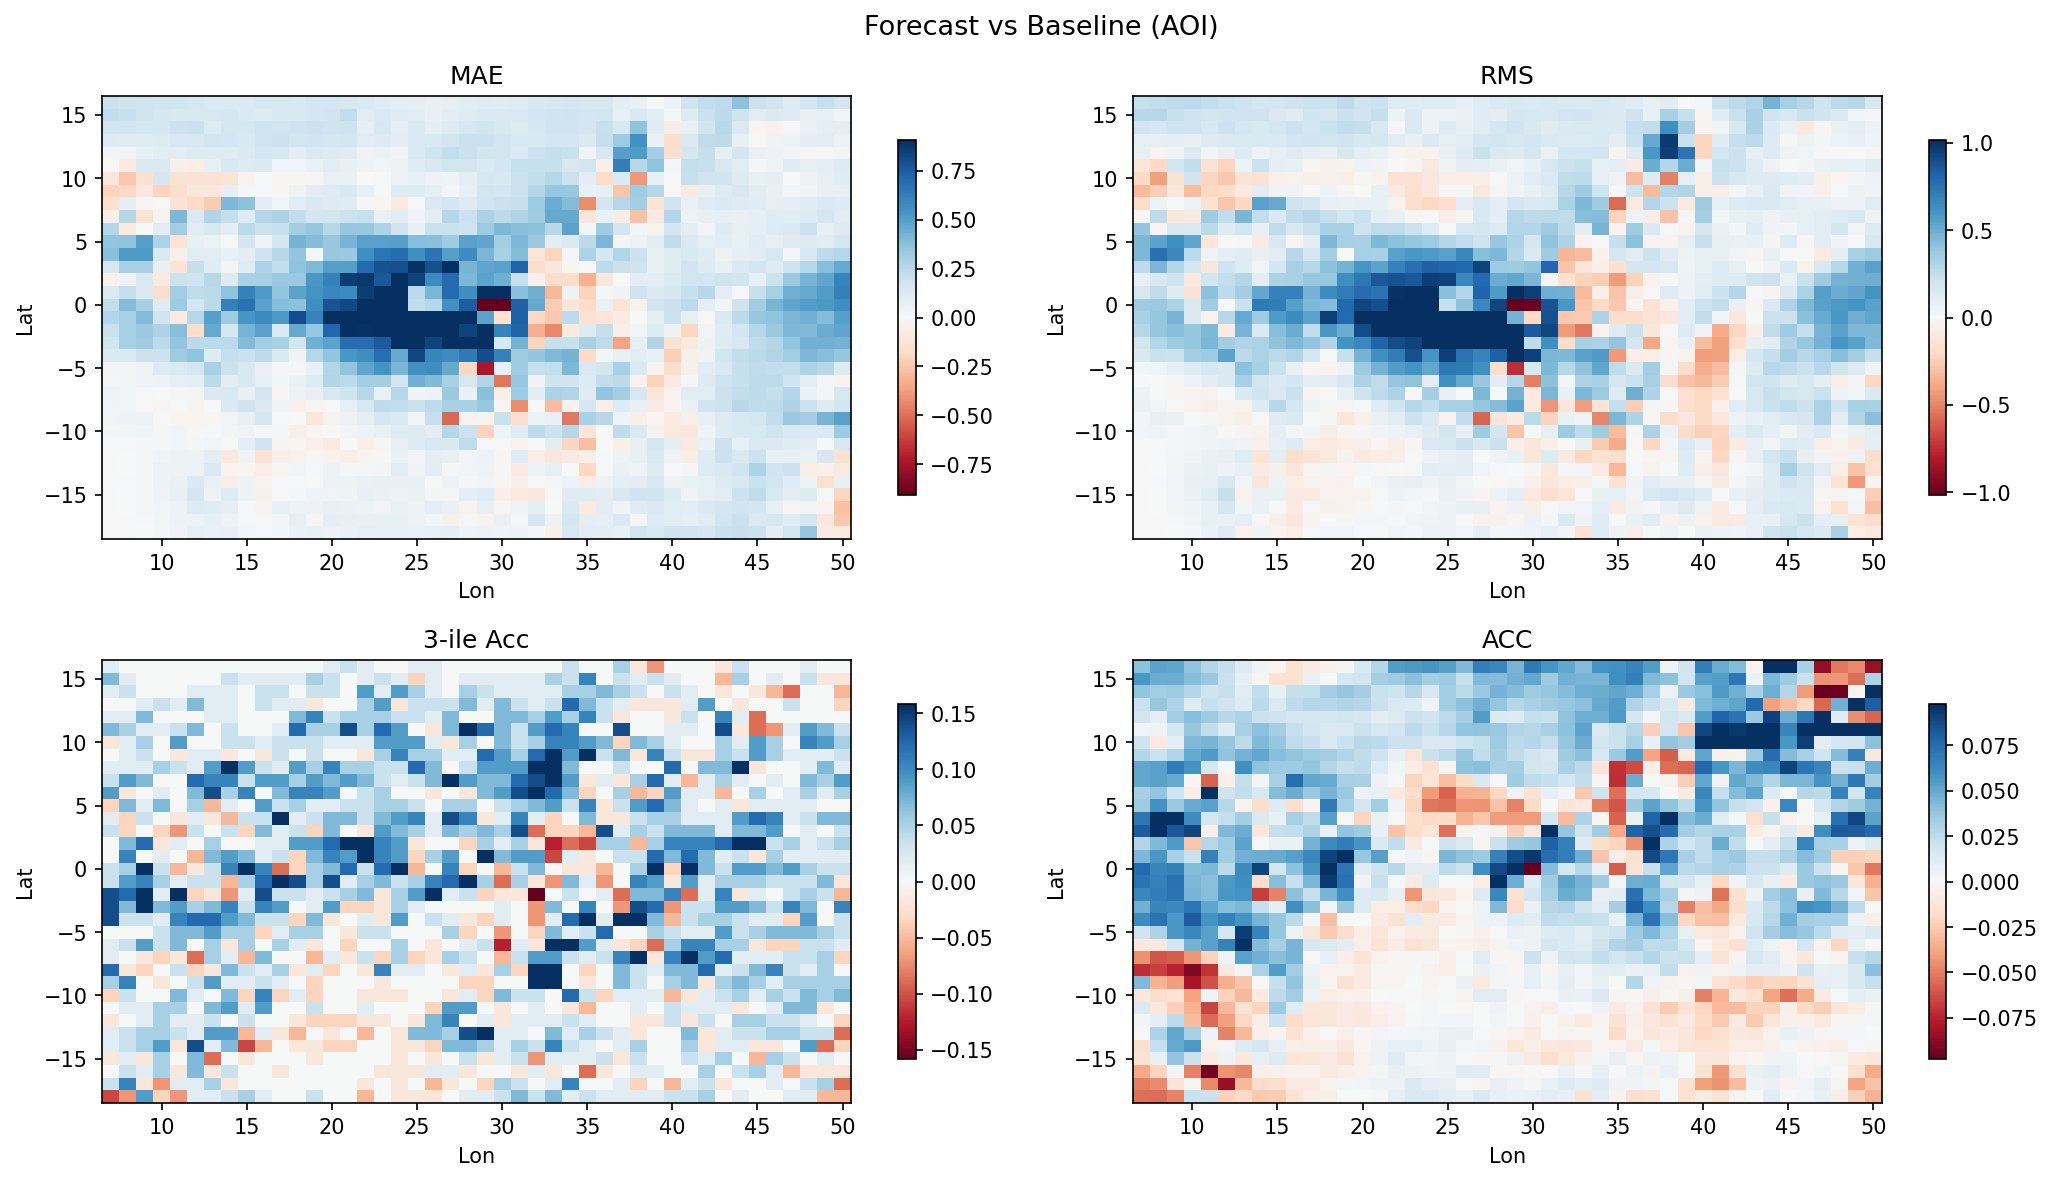
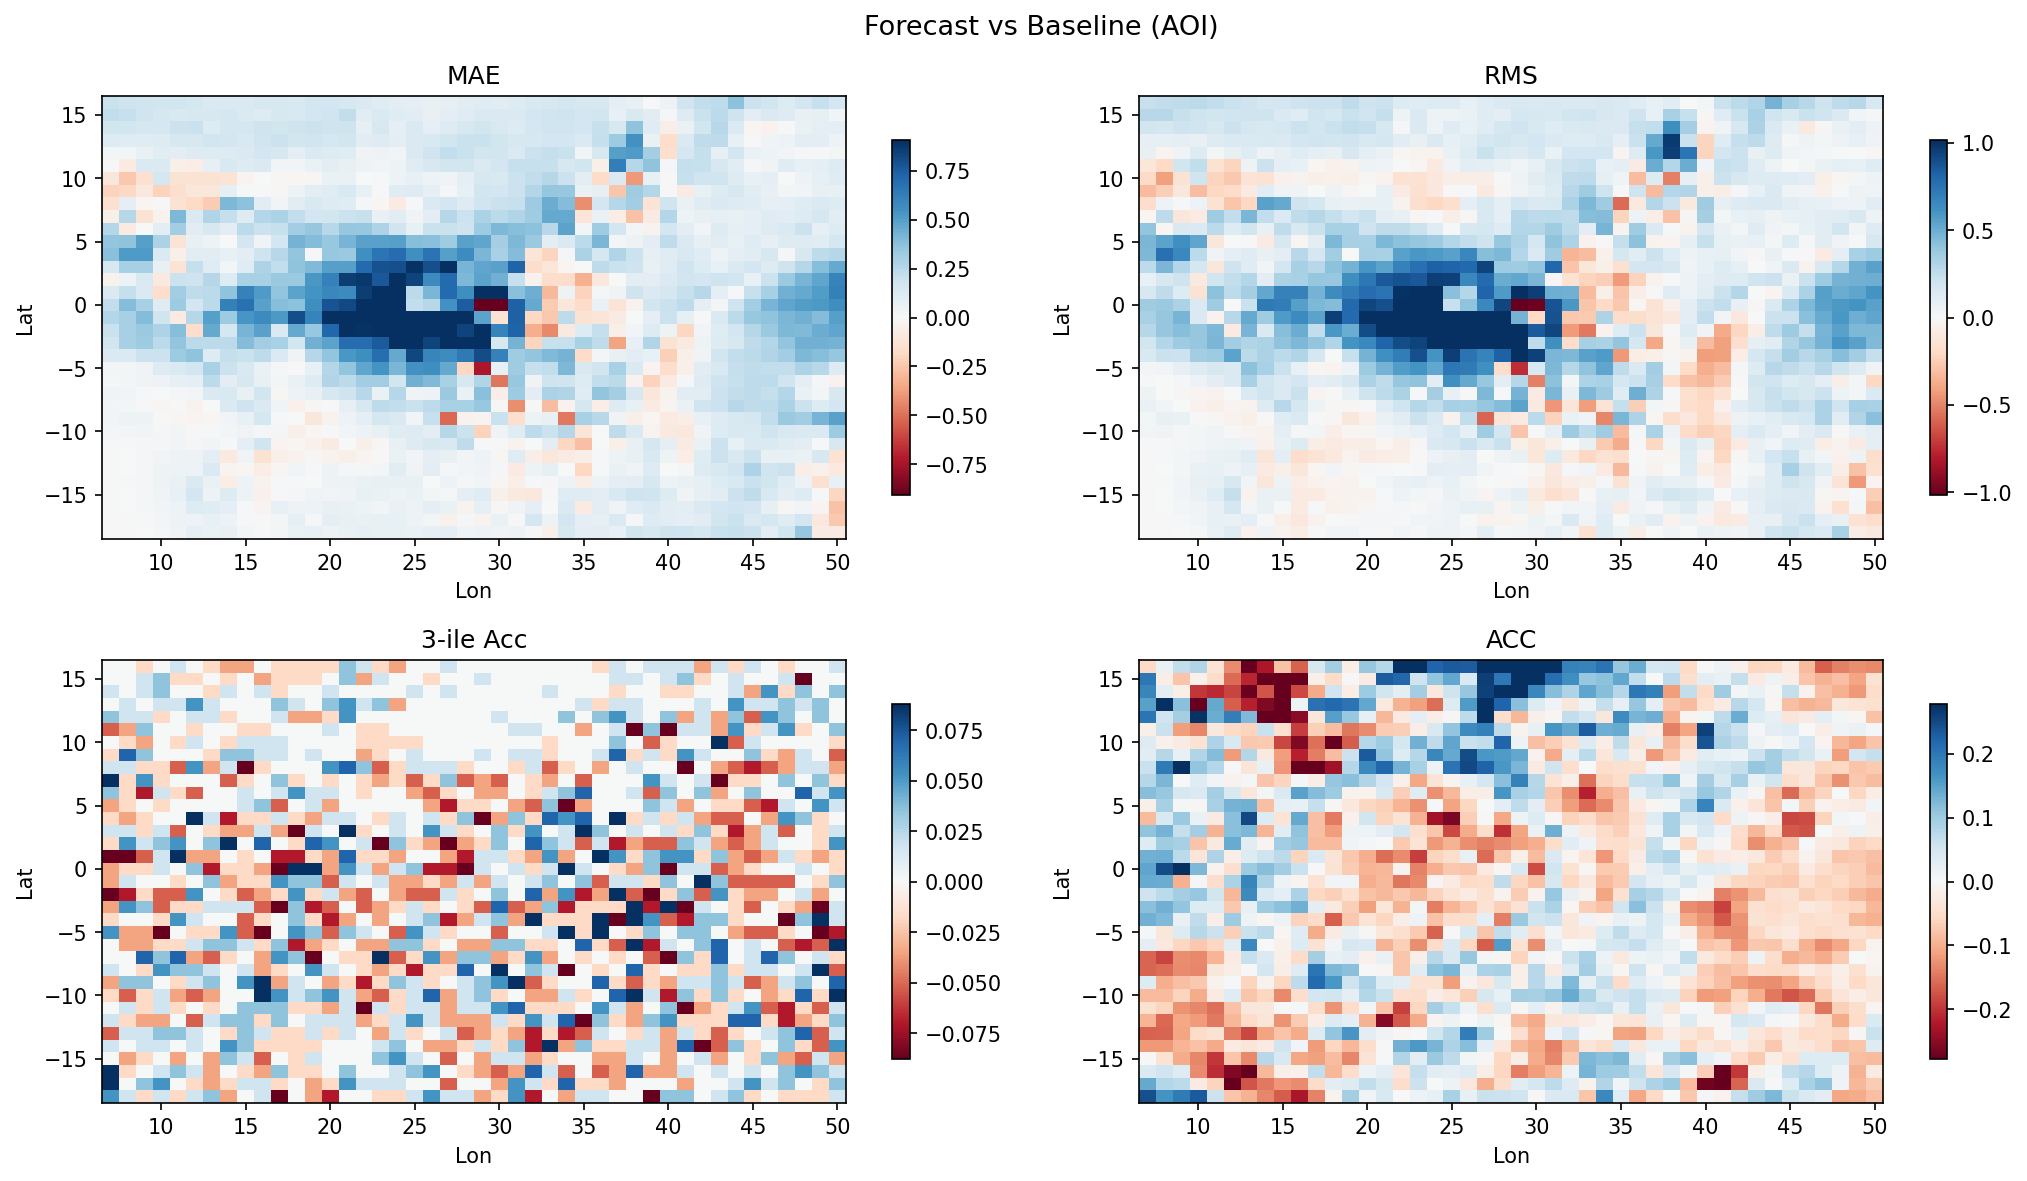
control for seasonality in ACC

diff --git a/analyse.py b/analyse.py
@@ -2,8 +2,8 @@
 Calculate:
 - MAE
 - RMSE
-- N-ile accuracy (accuracy for N %ile groups) per grid cell
-- ACC per grid cell
+- N-ile accuracy (accuracy for N %ile groups) per grid cell, month
+- ACC per grid cell, month
 """
 
 import xarray as xr
@@ -14,13 +14,23 @@ Y_MIN, Y_MAX, X_MIN, X_MAX = -18, 16, 7, 50
 PRED_PATH = "data/test_predictions.nc"
 ds = xr.open_dataset(PRED_PATH)
 
-forecast_global = ds["forecast"]
-obs_global = ds["obs"]
-baseline_global = ds["baseline"]
 
-forecast_aoi = ds["forecast"].sel(X=slice(X_MIN, X_MAX), Y=slice(Y_MIN, Y_MAX))
-obs_aoi = ds["obs"].sel(X=slice(X_MIN, X_MAX), Y=slice(Y_MIN, Y_MAX))
-baseline_aoi = ds["baseline"].sel(X=slice(X_MIN, X_MAX), Y=slice(Y_MIN, Y_MAX))
+LEAD = 3
+TEST_INIT_START = 300
+N_TEST_RAW = 60
+N_TEST_VALID = N_TEST_RAW - LEAD
+
+ds = ds.isel(time=slice(0, N_TEST_VALID))
+
+VERIF_MONTHS = (np.arange(TEST_INIT_START, TEST_INIT_START + N_TEST_VALID) + LEAD) % 12
+
+forecast_global = ds["forecast"].assign_coords(month=("time", VERIF_MONTHS))
+obs_global = ds["obs"].assign_coords(month=("time", VERIF_MONTHS))
+baseline_global = ds["baseline"].assign_coords(month=("time", VERIF_MONTHS))
+
+forecast_aoi = forecast_global.sel(X=slice(X_MIN, X_MAX), Y=slice(Y_MIN, Y_MAX))
+obs_aoi = obs_global.sel(X=slice(X_MIN, X_MAX), Y=slice(Y_MIN, Y_MAX))
+baseline_aoi = baseline_global.sel(X=slice(X_MIN, X_MAX), Y=slice(Y_MIN, Y_MAX))
 
 N = 3
 
@@ -29,10 +39,22 @@ def nile_accuracy(forecast, obs, n):
     quantiles = np.linspace(0, 1, n + 1)
     o = obs.values
     f = forecast.values
-    bins = np.quantile(o, quantiles, axis=0)
-    interior = bins[1:-1]
-    o_bin = (o[np.newaxis] > interior[:, np.newaxis]).sum(axis=0)
-    f_bin = (f[np.newaxis] > interior[:, np.newaxis]).sum(axis=0)
+    months = obs.month.values
+
+    o_bin = np.empty_like(o, dtype=int)
+    f_bin = np.empty_like(f, dtype=int)
+
+    for m in range(12):
+        idx = np.where(months == m)[0]
+        if len(idx) == 0:
+            continue
+        o_m = o[idx]
+        f_m = f[idx]
+        bins = np.quantile(o_m, quantiles, axis=0)
+        interior = bins[1:-1]
+        o_bin[idx] = (o_m[np.newaxis] > interior[:, np.newaxis]).sum(axis=0)
+        f_bin[idx] = (f_m[np.newaxis] > interior[:, np.newaxis]).sum(axis=0)
+
     acc = (o_bin == f_bin).mean(axis=0)
     return xr.DataArray(acc, dims=["Y", "X"], coords={"Y": obs.Y, "X": obs.X})
 
@@ -41,8 +63,12 @@ def evaluate(pred, obs, label):
     mae = np.abs(pred - obs).mean("time")
     rmse = np.sqrt(((pred - obs) ** 2).mean("time"))
     nile_acc = nile_accuracy(pred, obs, N)
-    obs_anom = obs - obs.mean("time")
-    pred_anom = pred - pred.mean("time")
+
+    obs_clim = obs.groupby("month").mean("time")
+    pred_clim = pred.groupby("month").mean("time")
+    obs_anom = obs.groupby("month") - obs_clim
+    pred_anom = pred.groupby("month") - pred_clim
+
     acc = (obs_anom * pred_anom).mean("time") / (
         obs_anom.std("time") * pred_anom.std("time")
     )

diff --git a/util.py b/util.py
@@ -1,66 +1,5 @@
-import numpy as np
+import xarray as xr
 
-d = np.load("data/ml_data.npz")
-y = d["y_obs"]  # (N,)
-p = d["preds"]  # (N, 7)
-
-models = [
-    "canesm5",
-    "cola-rsmas-ccsm4",
-    "cola-rsmas-cesm1",
-    "gem5p2-nemo",
-    "gfdl-spear",
-    "nasa-geoss2s",
-    "ncep-cfsv2",
-]
-
-T = 357
-NY = 179
-NX = 360
-
-# ── per-gridpoint correlations ────────────────────────────────────────────────
-# reshape to (T, NY, NX) for obs and (T, NY, NX, 7) for preds
-y3 = y.reshape(T, NY, NX)
-p4 = p.reshape(T, NY, NX, 7)
-
-# demean over time axis
-y_dm = y3 - y3.mean(axis=0, keepdims=True)  # (T, NY, NX)
-p_dm = p4 - p4.mean(axis=0, keepdims=True)  # (T, NY, NX, 7)
-
-num = (y_dm[:, :, :, None] * p_dm).sum(axis=0)  # (NY, NX, 7)
-denom = np.sqrt((y_dm**2).sum(axis=0)[:, :, None]) * np.sqrt(
-    (p_dm**2).sum(axis=0)
-)  # (NY, NX, 7)
-
-with np.errstate(invalid="ignore"):
-    corr = num / denom  # (NY, NX, 7)  — NaN where variance is 0
-
-print("PER-GRIDPOINT CORRELATIONS WITH OBS  (mean over globe)")
-print(f"  {'model':<22}  mean_r   std_r   frac>0   frac>0.2")
-for i, name in enumerate(models):
-    c = corr[:, :, i].ravel()
-    valid = c[np.isfinite(c)]
-    print(
-        f"  {name:<22}  {valid.mean():+.4f}  {valid.std():.4f}"
-        f"   {(valid > 0).mean():.3f}    {(valid > 0.2).mean():.3f}"
-    )
-
-# sanity: correlations should be in [-1, 1]
-assert np.nanmax(np.abs(corr)) <= 1.0 + 1e-5, "correlation out of range!"
-print("\n✓ all correlations in [-1, 1]")
-
-# ── global (pooled) correlations ──────────────────────────────────────────────
-print("\nGLOBAL POOLED CORRELATION WITH OBS")
-for i, name in enumerate(models):
-    r = np.corrcoef(y, p[:, i])[0, 1]
-    print(f"  {name:<22}  r = {r:+.4f}")
-
-# ── inter-model correlations ──────────────────────────────────────────────────
-print("\nINTER-MODEL CORRELATION MATRIX  (pooled)")
-C = np.corrcoef(p.T)  # (7, 7)
-header = "  " + "".join(f"{m[:6]:>8}" for m in models)
-print(header)
-for i, name in enumerate(models):
-    row = "  " + f"{name[:12]:<12}" + "".join(f"{C[i, j]:>8.3f}" for j in range(7))
-    print(row)
+ds = xr.open_dataset("sample.nc")
+print(ds)
 

diff --git a/train.py b/train.py
@@ -104,3 +104,4 @@ def train():
 
 if __name__ == "__main__":
     train()
+
